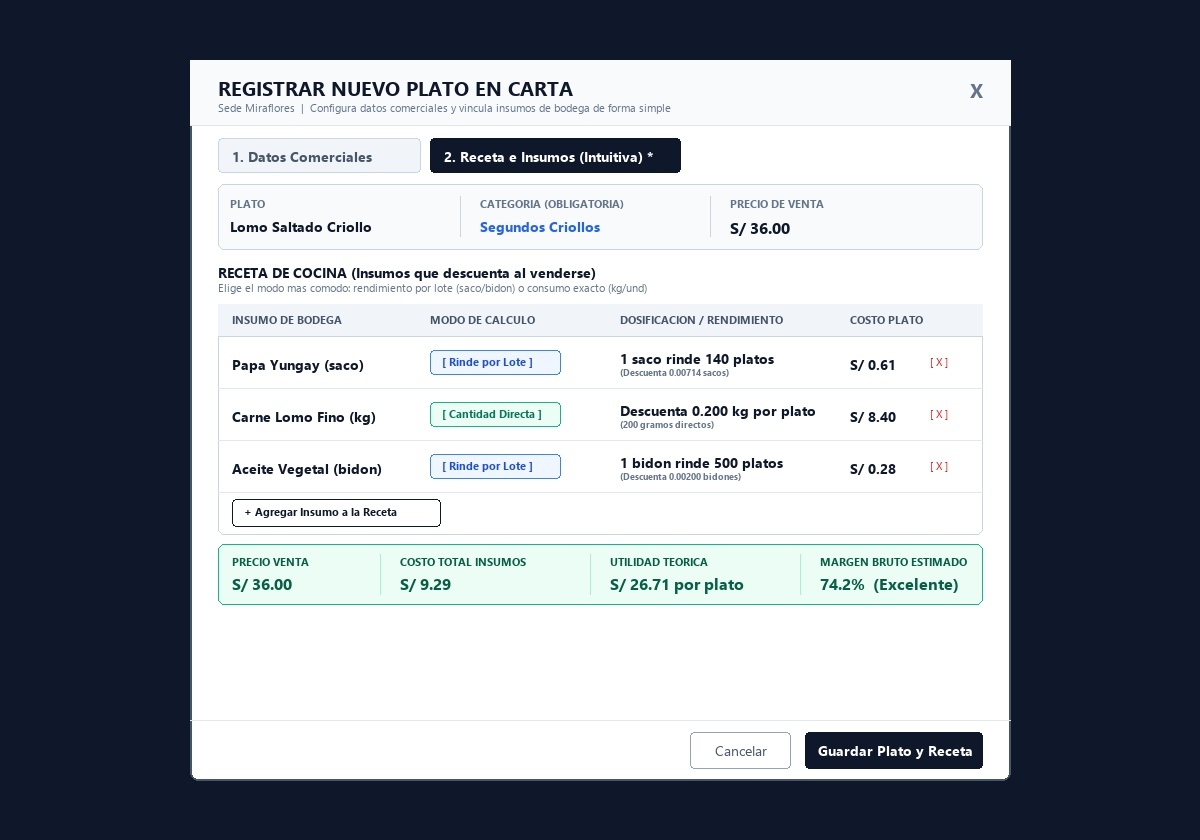
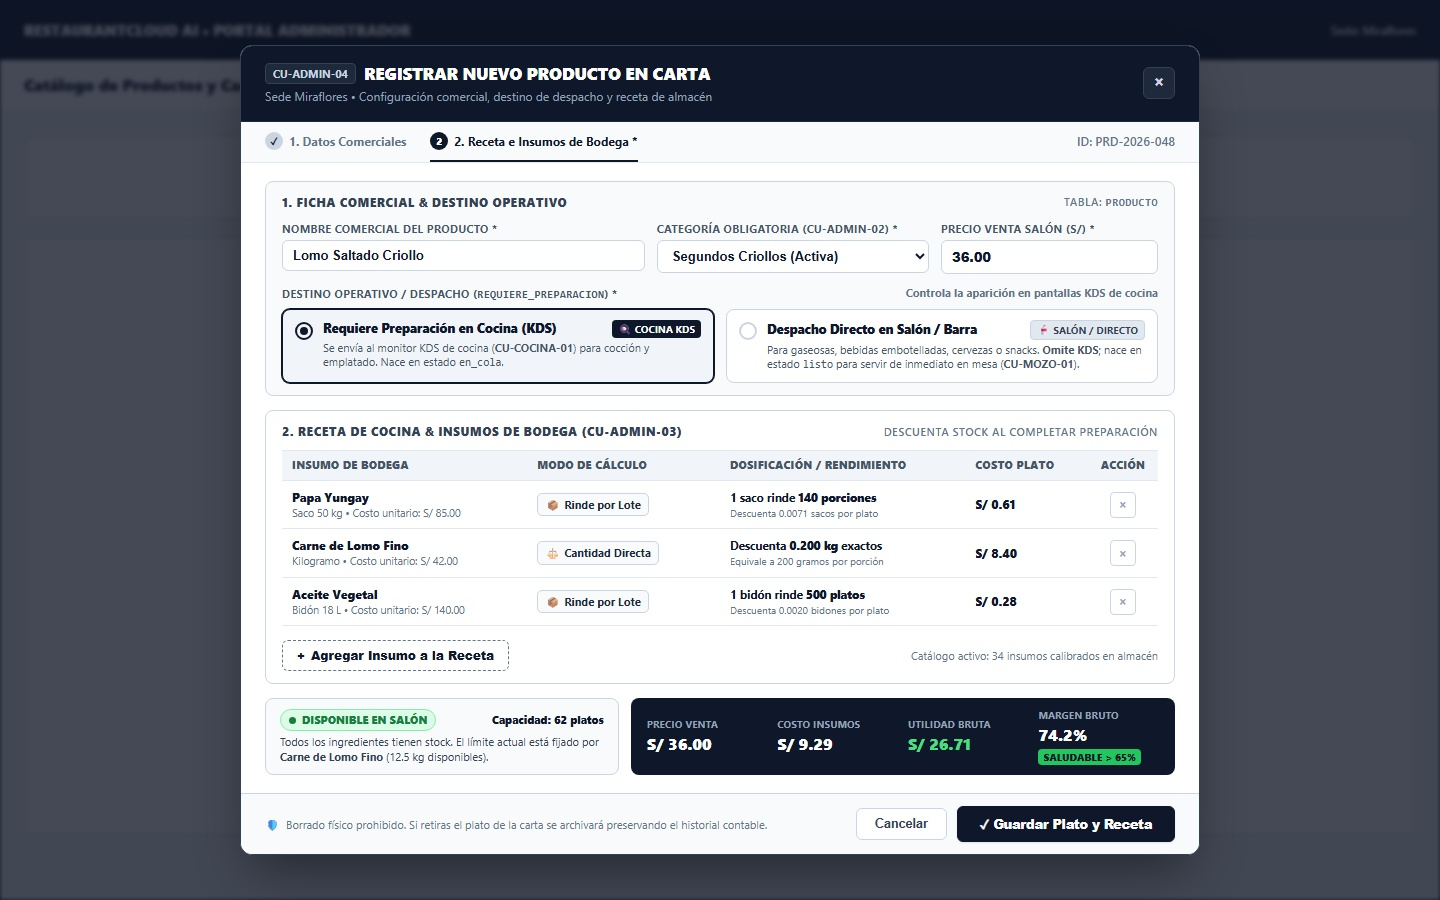
Actualizar diseño de CU-ADMIN-04: Gestionar Productos de la Carta y Recetas

diff --git a/wireframe/administrador/CU-ADMIN-04-productos-carta-recetas/wireframe.md b/wireframe/administrador/CU-ADMIN-04-productos-carta-recetas/wireframe.md
@@ -140,6 +140,10 @@ sequenceDiagram
 |                                                                               |
 | +---------------------------------------------------------------------------+ |
 | | PLATO: Lomo Saltado Criollo | CATEGORÍA: Segundos Criollos | PRECIO: S/36 | |
+| |                                                                           | |
+| | DESTINO OPERATIVO / DESPACHO:                                             | |
+| | (●) Requiere preparación en cocina (KDS)  [Comidas, fondos, elaboración]  | |
+| | ( ) Despacho directo en salón / barra     [Gaseosas, bebidas embotelladas]| |
 | +---------------------------------------------------------------------------+ |
 |                                                                               |
 | RECETA DE COCINA (Insumos que descuenta al venderse)                          |
@@ -173,6 +177,9 @@ sequenceDiagram
 4. **Disponibilidad Inicial Inteligente:**
    - Si todos los insumos tienen stock > 0, nace `disponible`.
    - Si al menos un insumo tiene stock 0, nace automáticamente `agotado` con aviso visual para proteger la cocina.
+5. **Destino Operativo (`requiere_preparacion`):**
+   - **`true` (Default):** El producto se envía a los monitores KDS de Cocina (`CU-COCINA-01`) para su cocción.
+   - **`false`:** Producto de despacho directo por salón/mozo (gaseosas, aguas, cervezas en botella, snacks). No se despacha al KDS de cocina, evitando ruido visual en fogones y permitiendo al mozo servirlo de inmediato en mesa en `CU-MOZO-01`. Si descuenta insumo, descuenta 1 unidad directa sin exigir receta por porciones.
 
 ---
 
@@ -395,6 +402,7 @@ Alta atómica de plato y receta vinculada.
   "descripcion": "Lomo fino salteado al wok con papas fritas y arroz",
   "precio": 36.00,
   "foto_url": null,
+  "requiere_preparacion": true, // true: cocina KDS, false: despacho directo en salón (gaseosas, aguas)
   "receta": [
     {
       "insumo_id": "7b8f9e12-4c3a-4e2b-a8d1-9f2e3d4c5b6a", // Papa Yungay (saco)
@@ -425,6 +433,7 @@ Alta atómica de plato y receta vinculada.
     "precio": 36.00,
     "costo_teorico": 9.29,
     "margen_bruto_pct": 74.2,
+    "requiere_preparacion": true,
     "disponibilidad": "disponible",
     "mensaje": "Plato y receta registrados exitosamente. Disponible en comanda de mozos."
   },
